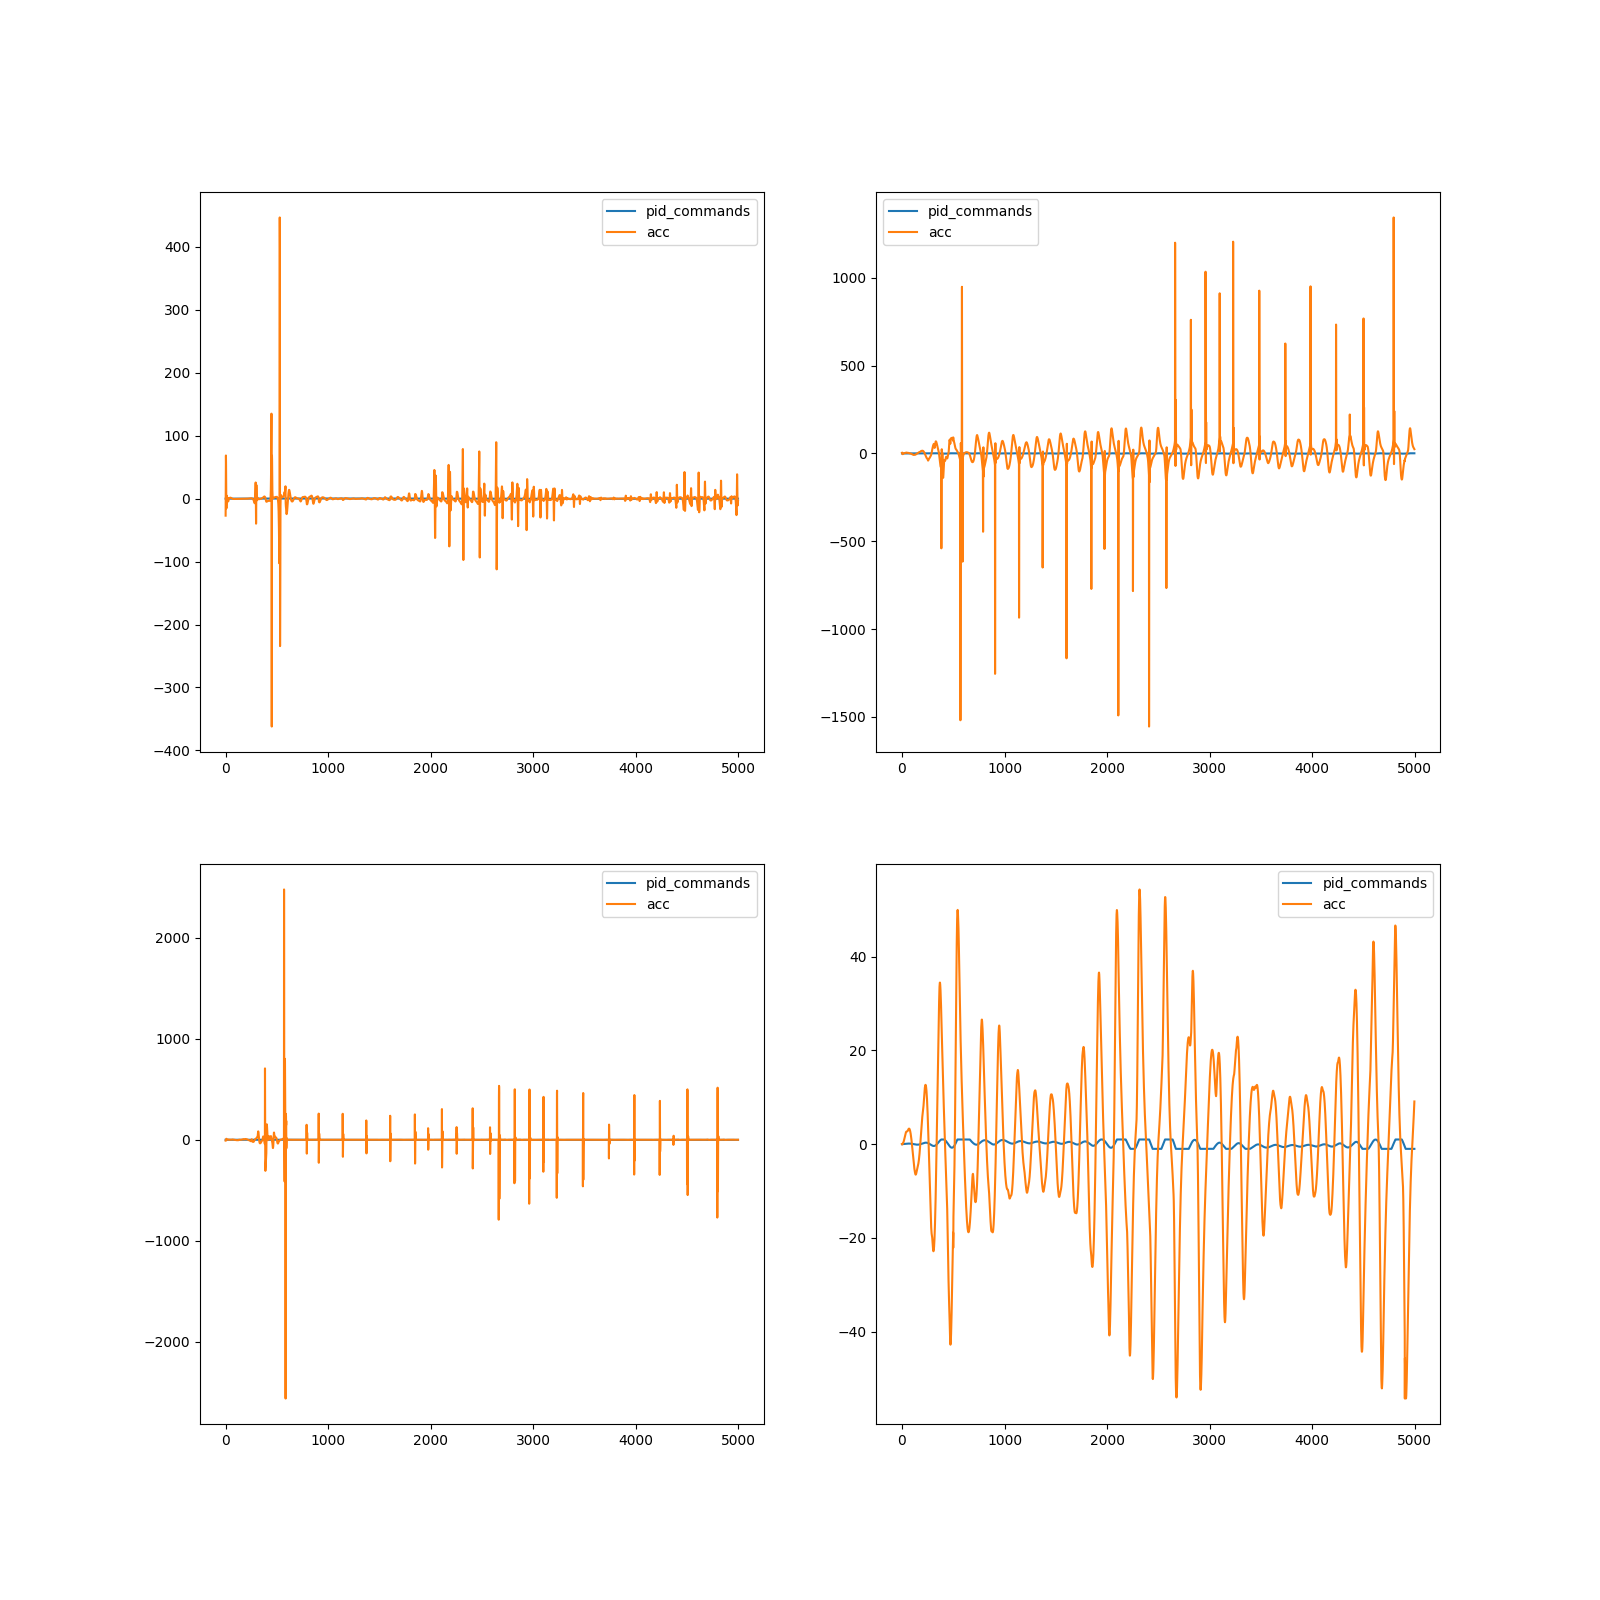
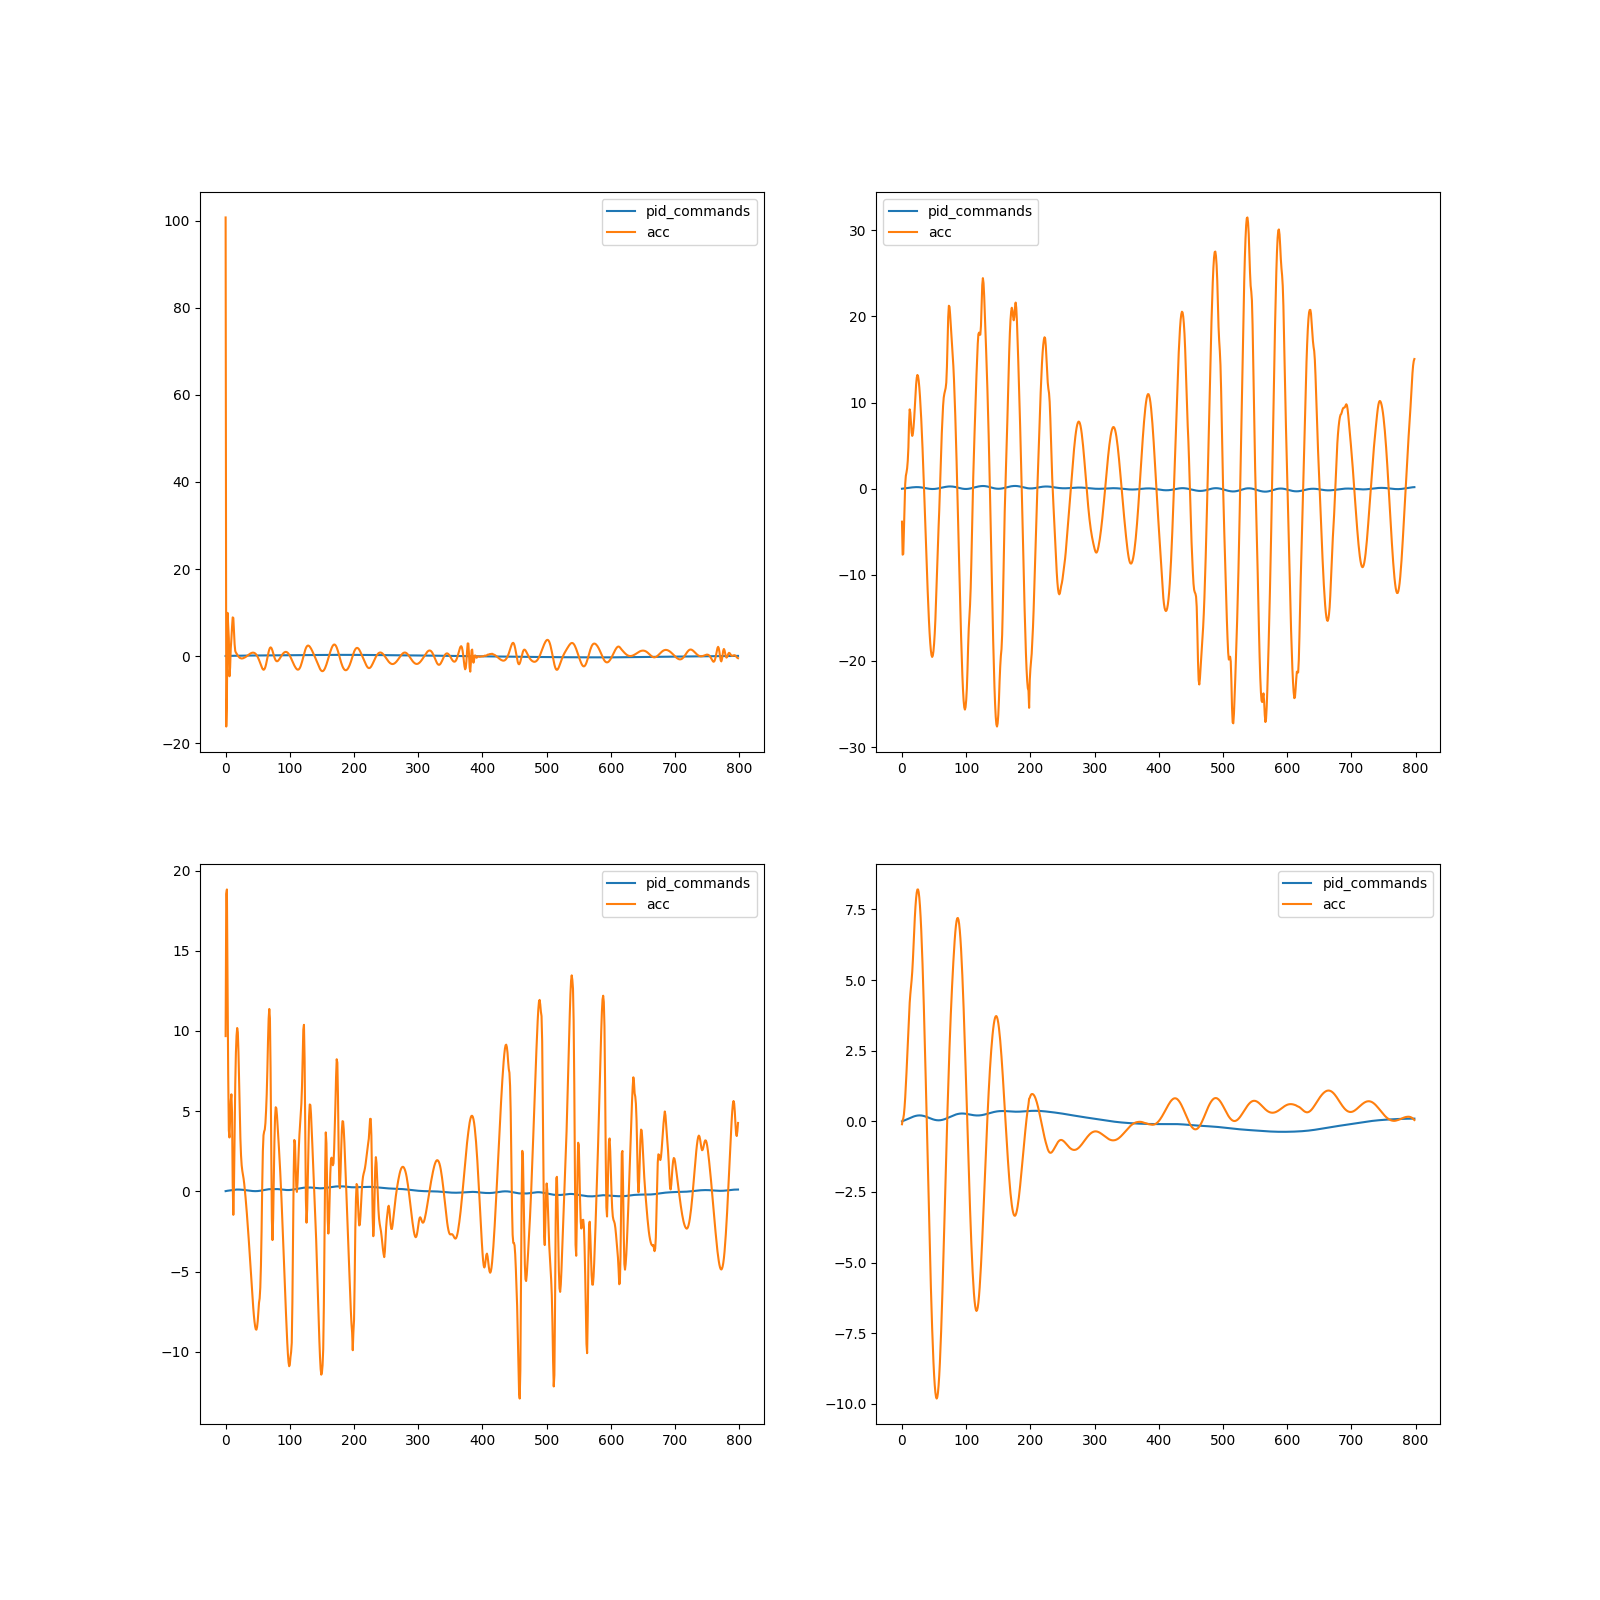
added pressure commands

diff --git a/basic_env/one_ball_alt.py b/basic_env/one_ball_alt.py
@@ -1,3 +1,4 @@
+from logging import raiseExceptions
 import pathlib
 import json
 import os
@@ -194,7 +195,7 @@ class _Observation:
 
 
 class HysrOneBall_single_robot(gym.Env):
-    def __init__(self, hysr_config, reward_function, logs=False, reward_type = 'fb_lin'):
+    def __init__(self, hysr_config, reward_function, logs=False, reward_type = 'fb_lin', action_domain = 'joint'):
         super(HysrOneBall_single_robot, self).__init__()
         self._hysr_config = hysr_config
         self.logs = logs
@@ -207,6 +208,7 @@ class HysrOneBall_single_robot(gym.Env):
         # of each episode)
         self._step_number = -1
         self.reward_type = reward_type
+        self.action_domain = action_domain
 
         # we end an episode after a fixed number of steps
         self._nb_steps_per_episode = hysr_config.nb_steps_per_episode
@@ -436,7 +438,13 @@ class HysrOneBall_single_robot(gym.Env):
         low = -np.inf * np.ones(shape = (40,))
         high = np.inf * np.ones(shape = (40,))
         self.observation_space = SamplingSpace(low=low, high=high, dtype='float32')
-        self.action_space = spaces.Box(low = -0.05, high=0.05, shape = (4,), dtype = 'float32')
+
+        if self.action_domain=='joint':
+            self.action_space = spaces.Box(low = -0.1, high=0.1, shape = (4,), dtype = 'float32')
+        elif self.action_domain=='pressure':
+            self.action_space = spaces.Box(low = -2000, high= 2000, shape = (8,), dtype = 'int32')
+        else:
+            ValueError("Use either of following for action_domain : joint | pressure")
 
     def get_starting_pressures(self):
         return self._hysr_config.starting_pressures
@@ -897,11 +905,17 @@ class HysrOneBall_single_robot(gym.Env):
             pid_command = self.observation.pd_command 
 
         #2. Add pressures/torques
-        command = [c+pi for c,pi in zip(pid_command, command_policy)]
+        if self.action_domain == 'joint':
+            command = [c+pi for c,pi in zip(pid_command, command_policy)]
+        else:
+            command = pid_command
 
         #3. Convert torques to pressure using heuristic
         pressures = self.controller.convert_command_to_pressures(command)
 
+        if self.action_domain == 'pressure':
+            command_tuple = list(zip(*[iter(command_policy)]*2))
+            pressures = [(p1+cp1, p2+cp2) for (p1,p2),(cp1,cp2) in zip(pressures,command_tuple)]
         # sending action pressures to real (or pseudo real) robot.
         # Waiting needs to be HERE, since then we can get the updated observation.
         # Being outside causes the observation to become old
@@ -1008,7 +1022,8 @@ class HysrOneBall_single_robot(gym.Env):
             'full_command':command.copy(),
             'pressure_command': pressures.copy(),
             'reward':reward,
-            'episode_over': episode_over
+            'episode_over': episode_over,
+            'command_pressure': pressures
         }
 
         if self.logs:
@@ -1055,6 +1070,7 @@ class HysrOneBall_single_robot(gym.Env):
         command = []
         joint_pos_des = []
         joint_vel_des = []
+        command_pressures = []
         for items in self.logger:
             joint_pos.append(items['obs_next'][:4].copy())
             joint_vel.append(items['obs_next'][4:8].copy())
@@ -1064,6 +1080,7 @@ class HysrOneBall_single_robot(gym.Env):
             command.append(items['full_command'].copy())
             joint_pos_des.append(items['obs_des'].copy())
             joint_vel_des.append(items['obs_vel_des'].copy())
+            command_pressures.append(items['command_pressure'].copy())
 
         all_data_np = {
         'joint_pos' : np.array(joint_pos),
@@ -1073,7 +1090,8 @@ class HysrOneBall_single_robot(gym.Env):
         'command' : np.array(command),
         'pid_command' : np.array(pid_command),
         'joint_pos_des' : np.array(joint_pos_des),
-        'joint_vel_des':np.array(joint_vel_des)
+        'joint_vel_des':np.array(joint_vel_des),
+        'command_pressures':command_pressures
         }
 
         self.reset_logger()

diff --git a/basic_env/tests_single_one_ball_updated.py b/basic_env/tests_single_one_ball_updated.py
@@ -29,7 +29,10 @@ algo_time_step = hysr_config.algo_time_step
 
 hysr = HysrOneBall_single_robot(hysr_config, reward_function, logs = True, 
                                 # reward_type = 'pos'
+                                action_domain='pressure'
                                 )
+
+RANDOM = False  #use random actions
 
 # trajectory_index = 49
 # hysr.set_ball_behavior(index=trajectory_index)
@@ -42,17 +45,38 @@ hysr.reset()
 # # wait_pressures = [p for sublist in hysr_config.reference_posture for p in sublist]
 # wait_pressures = [0,0,0,0,0,0,0,0]
 
-action = [0,0,0,0]
+if RANDOM==False:
+    if hysr.action_domain == 'joint':
+        action = [0,0,0,0]
+    elif hysr.action_domain=='pressure':
+        action = [0,0,0,0,0,0,0,0]
+else:
+    action = hysr.action_space.sample()
+
+print("Sample action = ",action)
+
+
 data_iter = {}
 for episode in range(1):
     print("EPISODE", episode)
     running = True                                                                                                                                                                                                                                                                                                                                                                                                                               
     nb_steps = 0
     while running:
+
+        if RANDOM==False:
+            if hysr.action_domain == 'joint':
+                action = [0,0,0,0]
+            elif hysr.action_domain=='pressure':
+                action = [0,0,0,0,0,0,0,0]
+        else:
+            action = hysr.action_space.sample()
+
+
         if nb_steps < 60:
             observation, reward, reset, log = hysr.step(action)
         else:
             observation, reward, reset, log = hysr.step(action)
+        print(f"{nb_steps} : Act = {action}")
         print(f"{nb_steps} : Obs = {observation[:4]} | reward = {reward}")
 
         running = not reset
@@ -70,16 +94,20 @@ for episode in range(1):
 
 hysr.close()
 
-# Plots
-plot_values(plot_name = 'test',dof = 4, joint_pos = logs['joint_pos'][1:], des_joint_pos = logs['joint_pos_des'][:-1])
+press_diff = np.array([[(ago - antago) for (ago,antago) in items] for items in logs['command_pressures']])
+print("\n\n ****************************************** \n\n")
+print(f"Pressure diff Stats : Max = {np.max(press_diff)}, Min  = {np.min(press_diff)}, mean = {np.mean(press_diff)}")
 
+# Plots
+plot_values(plot_name = 'test_pos',dof = 4, joint_pos = logs['joint_pos'][1:], des_joint_pos = logs['joint_pos_des'][:-1])
+plot_values(plot_name = 'test_press', dof = 4, press_diff = press_diff)
 acc = np.diff(logs['joint_vel'], axis=0)/hysr._hysr_config.algo_time_step
 print("Algo timestep = ",hysr._hysr_config.algo_time_step)
-plot_values(plot_name = 'test_fb_err',dof = 4, 
-            pid_commands = logs['command'][1:],
-            acc = acc
+plot_values(plot_name = 'test_command',dof = 4, 
+            pid_commands = logs['command'],
             )
-# plot_values(dof = 1, rewards = logs['rewards'].reshape(-1,1))
+plot_values(plot_name = 'test_acc', dof = 4, acc=acc)
+plot_values(plot_name = 'test_rew', dof = 1, rewards = logs['rewards'].reshape(-1,1))
 
 
 
